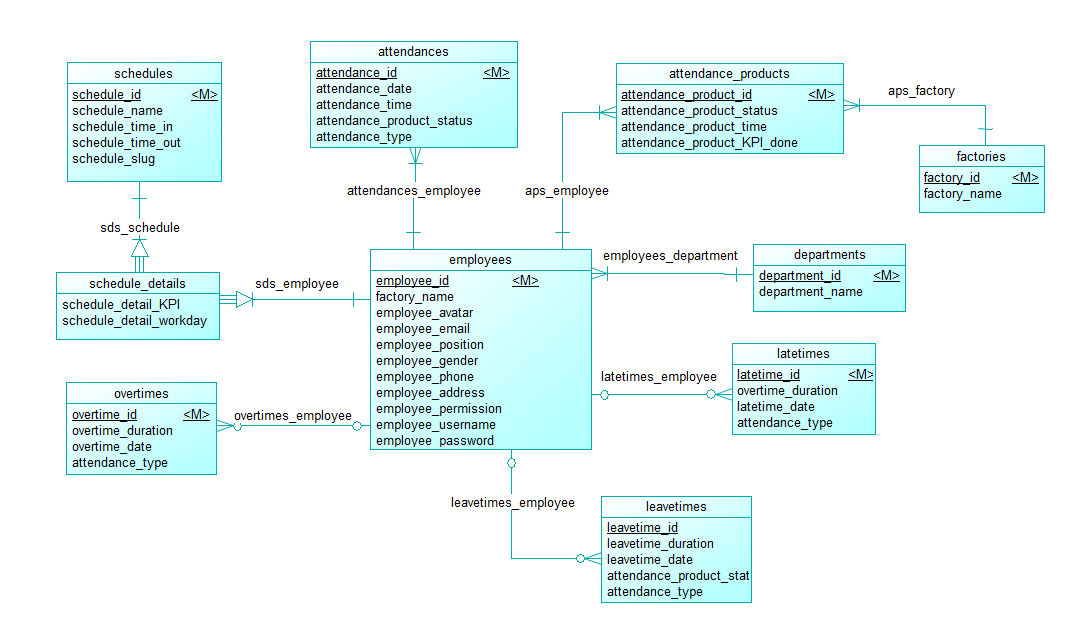
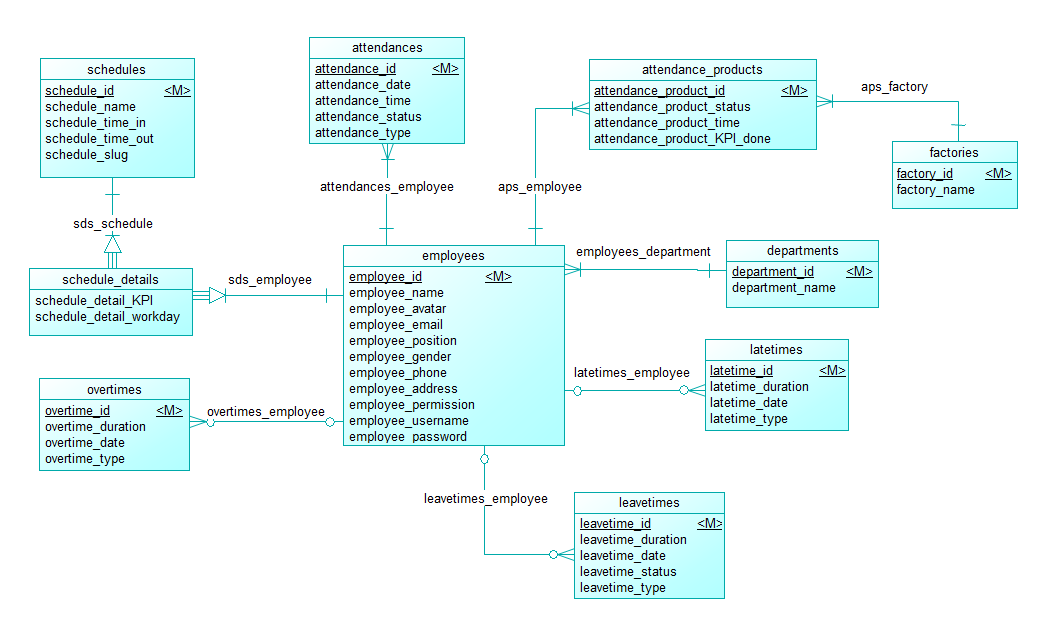
Fix Readme

Changed region(s): [[0.0307, 0.0911, 0.8599, 0.9712], [0.5221, 0.0911, 0.9827, 0.3339], [0.2764, 0.0607, 0.5835, 0.3339]]

diff --git a/README.md b/README.md
@@ -31,7 +31,7 @@ Below is the conceptual data model (CDM) for the system:
 | `attendance_id`           | INT (PK)  | Unique identifier for attendance     |
 | `attendance_date`         | DATE      | Date of attendance                   |
 | `attendance_time`         | TIME      | Time of attendance                   |
-| `attendance_product_status` | VARCHAR | Status of product-related attendance |
+| `attendance_status`       | VARCHAR   | Status of check-in/out               |
 | `attendance_type`         | VARCHAR   | Type of attendance                   |
 
 ### 📦 3. Attendance Products (`attendance_products`)
@@ -55,25 +55,25 @@ Below is the conceptual data model (CDM) for the system:
 | 🆔 Column Name         | 🗄 Data Type  | 📌 Description                 |
 |---------------------|-----------|-----------------------------|
 | `overtime_id`      | INT (PK)  | Unique identifier           |
-| `overtime_duration`| INT       | Duration in hours           |
+| `overtime_duration`| TIME      | Duration in hours           |
 | `overtime_date`    | DATE      | Date of overtime            |
-| `attendance_type`  | VARCHAR   | Type of attendance          |
+| `overtime_type`    | VARCHAR   | Type of overtime            |
 
 ### ⏰ 6. Late Times (`latetimes`)
 | 🆔 Column Name         | 🗄 Data Type  | 📌 Description                |
 |---------------------|-----------|----------------------------|
 | `latetime_id`      | INT (PK)  | Unique identifier          |
-| `overtime_duration`| INT       | Extra hours due to lateness|
+| `latetime_duration`| TIME      | Duration in minutes        |
 | `latetime_date`    | DATE      | Date of late attendance    |
-| `attendance_type`  | VARCHAR   | Type of attendance         |
+| `latetime_type`    | VARCHAR   | Type of late               |
 
 ### 🚪 7. Leave Times (`leavetimes`)
 | 🆔 Column Name          | 🗄 Data Type  | 📌 Description            |
 |----------------------|-----------|------------------------|
 | `leavetime_id`      | INT (PK)  | Unique identifier      |
-| `leavetime_duration`| INT       | Duration of leave      |
+| `leavetime_duration`| TIME      | Duration of leave      |
 | `leavetime_date`    | DATE      | Date of leave          |
-| `attendance_product_stat` | VARCHAR | Leave status        |
+| `leavetime_status`  | VARCHAR   | Leave status           |
 
 ## ⚡ TCP Socket Integration
 - The system integrates **TCP Socket communication** to receive real-time attendance data from biometric devices.
